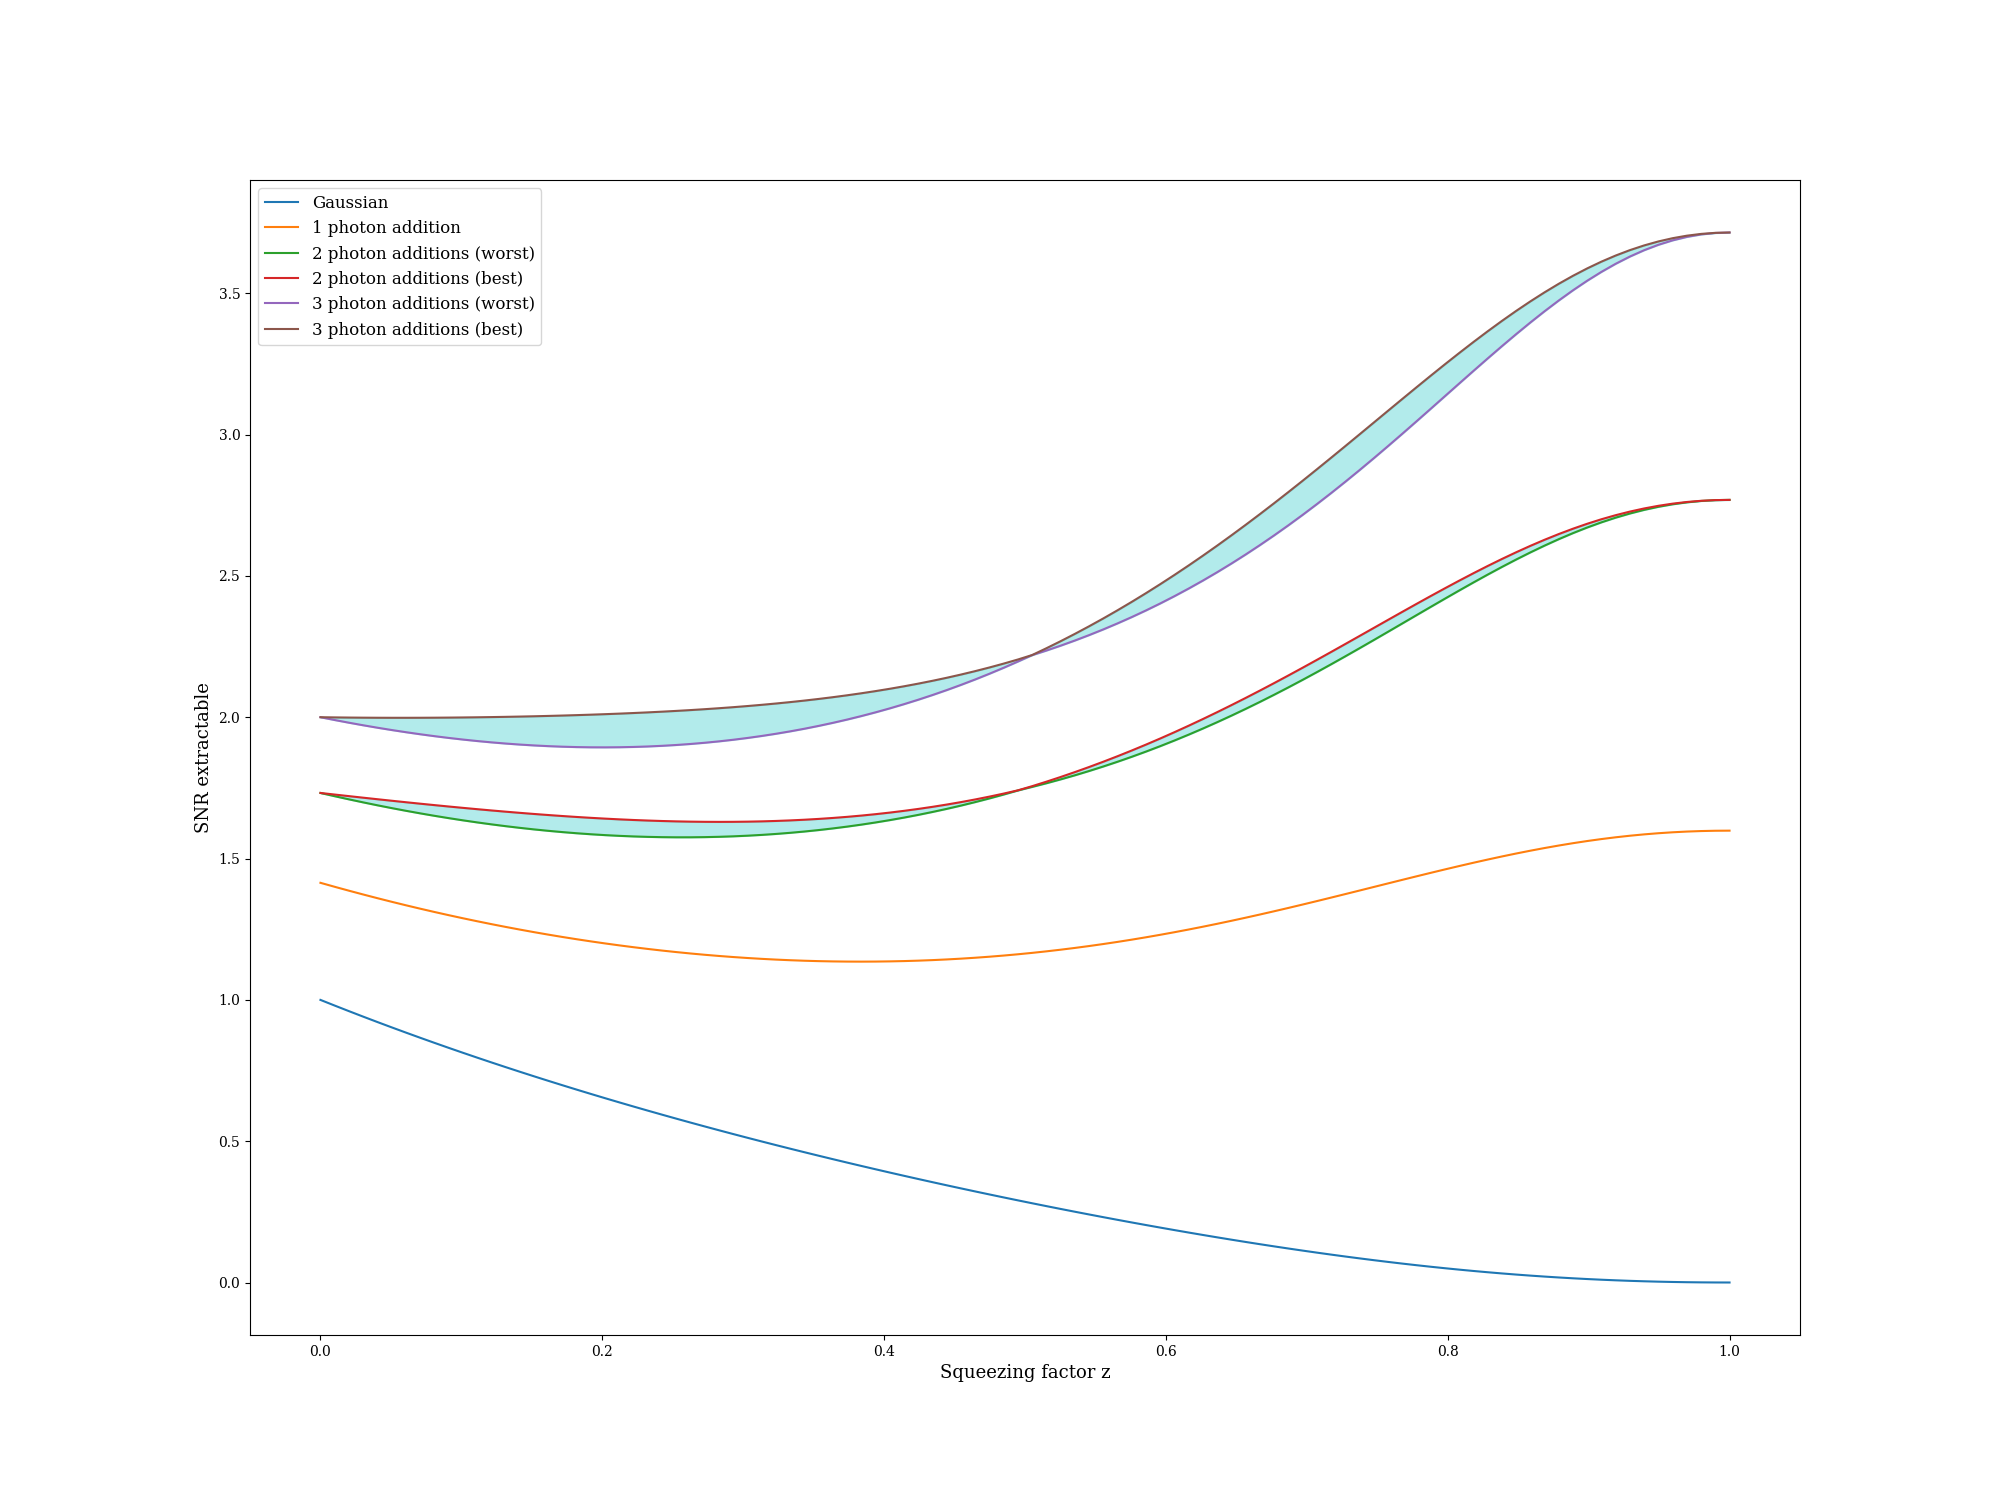
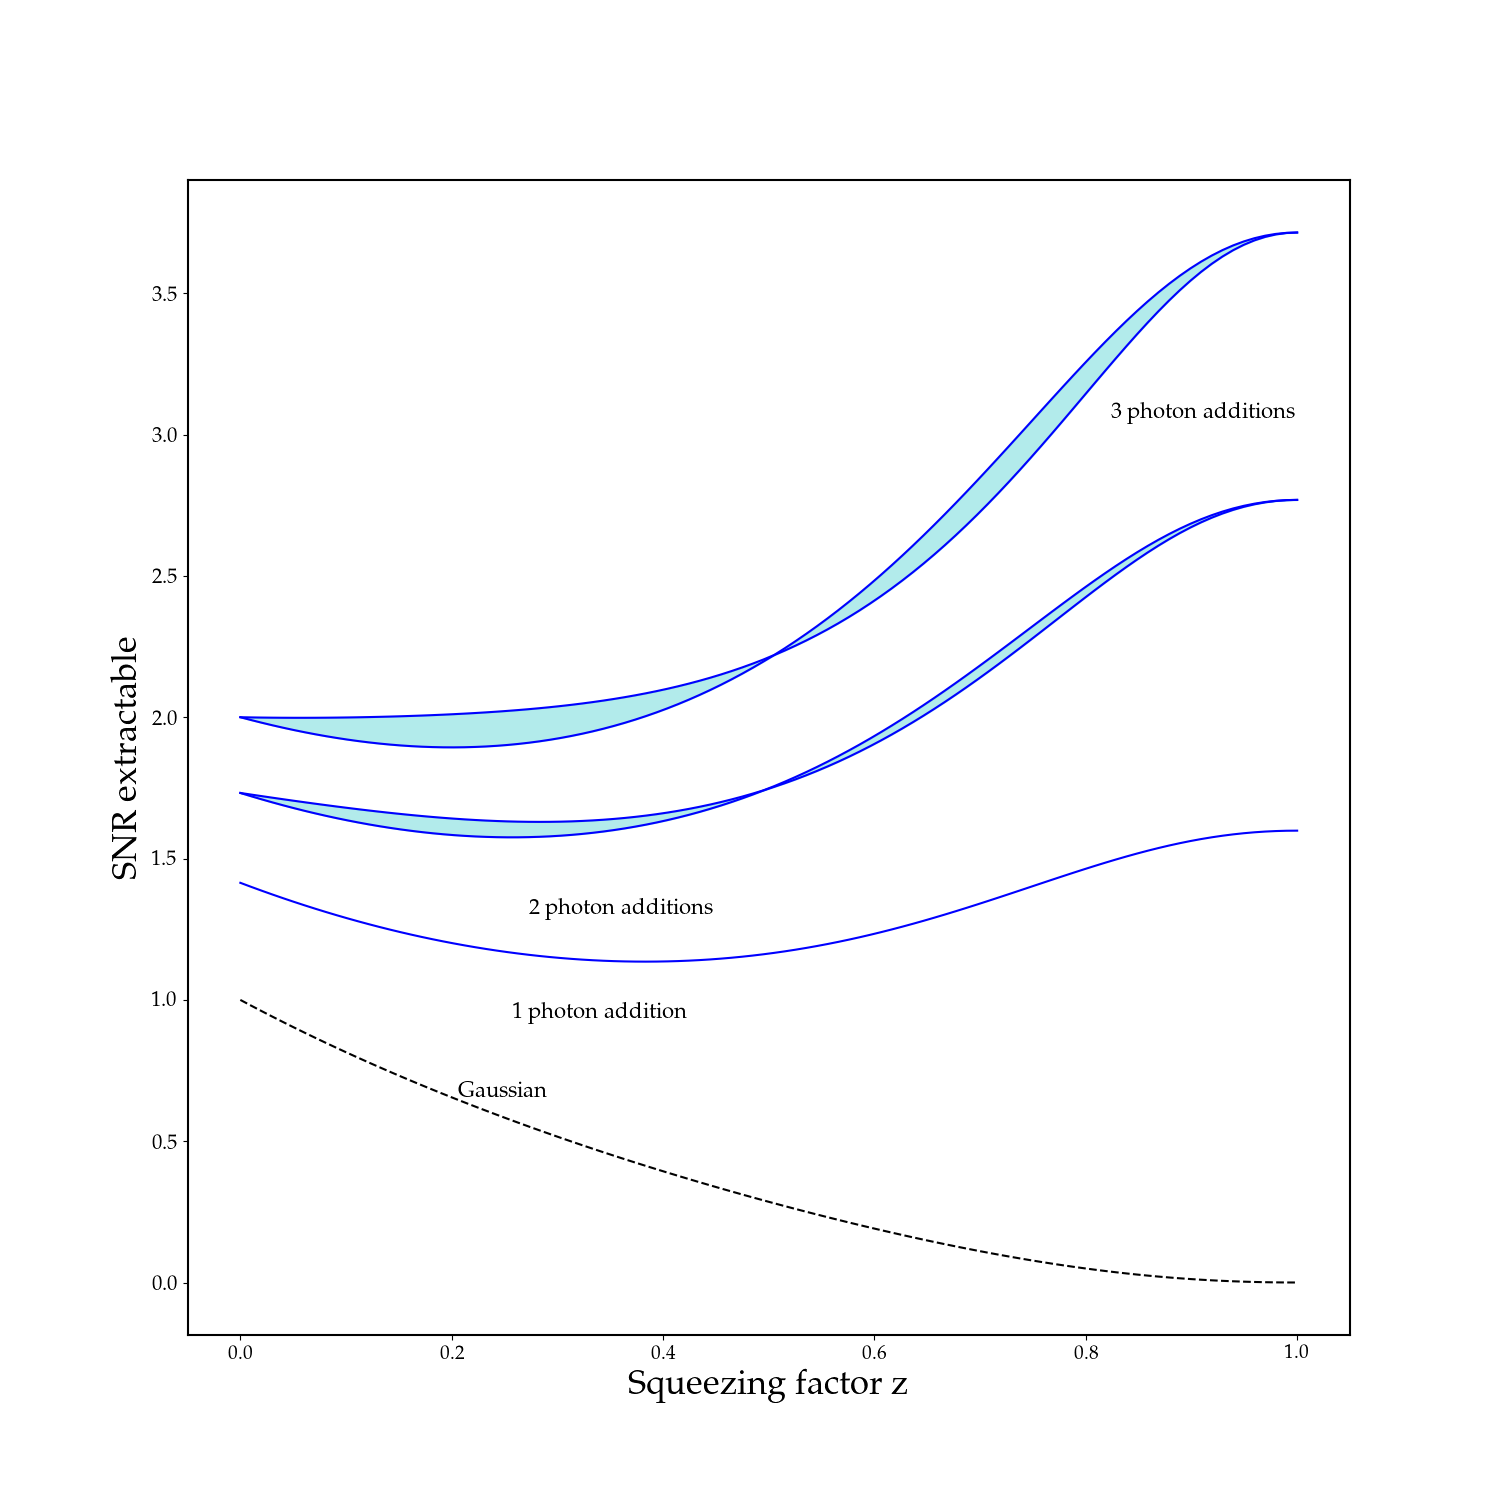
edits in plots

diff --git a/plots.py b/plots.py
@@ -20,7 +20,20 @@ import matplotlib.colors as mcolors
 
 from utils import *
 from expectation_values import *
-plt.rc('font', family='serif')
+params = {'axes.linewidth': 1.4,
+         'axes.labelsize': 25,
+         'axes.titlesize': 30,
+         'axes.linewidth': 1.5,
+         'lines.markeredgecolor': "black",
+     	'lines.linewidth': 1.5,
+         'xtick.labelsize': 14,
+         'ytick.labelsize': 15,
+         "text.usetex": True,
+         "font.family": "serif",
+         "font.serif": ["Palatino"]
+         }
+plt.rcParams.update(params)
+
 
 def ratio_results(nongaussian_ops,z,theta,phi,params):
   N=len(z)
@@ -490,10 +503,10 @@ def SV_plots(nongaussian_ops):
   x = np.arange(0, np.pi, 0.005) #for angles
   z_vec=np.linspace(0.25,0.85,10) #squeezing values
   colors = plt.cm.viridis(z_vec)
-  T=5
+  T=1.3
   sigma0=V_thermal(T,[1,1],[0],[0]*2,params=None)
   phi=np.random.rand(2)
-  fig,axes=plt.subplots(2,1)
+  fig,axes=plt.subplots(2,1,figsize=(15,15))
   j=0
   for j in range(len(nongaussian_ops)):
     axup = axes[(j//2)*2]
@@ -504,7 +517,7 @@ def SV_plots(nongaussian_ops):
       axup.set_ylabel('SV criterion')
       axdown.plot(x,[SNR_ng_extr(V_thermal(T,[q,1/q],[w],[0,0],params=None),nongaussian_ops[j],sigma0) for w in x], color=colors[i])
       axdown.set_ylabel('SNR extractable')
-      axdown.set_xlabel('Beam splitter angle θ')
+      axdown.set_xlabel(r' Beam splitter angle $\displaystyle \theta$')
       i+=1
   
   # Adjust layout to make room for the colorbar
@@ -527,7 +540,7 @@ def SV_plots(nongaussian_ops):
 def evolution_with_noise_gaussian():
   
   plt.rc('font', family='serif')
-  fig, ax = plt.subplots(1, 1, figsize=(15, 15))
+  fig, ax = plt.subplots(1, 1, figsize=(30, 15))
   noise=np.linspace(1,3,10)
   #second plot
   z_vec=list(np.arange(0.001,1,0.001))
@@ -538,16 +551,16 @@ def evolution_with_noise_gaussian():
     yvec= [SNR_ng_extr(V_thermal(noise[i],[z,1/z],[0],[0,0],params=None),[],sigma0) for z in z_vec]
     ax.plot(z_vec,yvec, color=cmap(norm(noise[i])))
   cbar = plt.colorbar(plt.cm.ScalarMappable(cmap=cmap, norm=norm), ax=ax, location='right') 
-  cbar.set_label('Noise',fontsize=13)
-  ax.set_xlabel('Squeezing parameter z',fontsize=20)
-  ax.set_ylabel('SNR extractable',fontsize=20)
+  cbar.set_label('Noise')
+  ax.set_xlabel('Squeezing parameter z')
+  ax.set_ylabel('SNR extractable')
   #ax.set_title('SNR as a function of squeezing')
   plt.savefig('gaussian_extr_snr_with noise.png')
   plt.show()
   return
 
 def bounds():
-  fig, ax = plt.subplots(1, 1, figsize=(20, 15))
+  fig, ax = plt.subplots(1, 1, figsize=(15, 15))
   plt.rc('font', family='serif')
   x_vec=np.linspace(0.00000001,np.pi,100)
   nu=1.3
@@ -569,18 +582,25 @@ def bounds():
     three_worst+=[np.min([SNR_ng_extr(V_thermal(nu,[z,1/z],[0],[0,0]),[factor,factor,factor],sigma0),SNR_ng_extr(V_thermal(nu,[z,1/z],[np.pi/4],[0,0]),[factor,factor,factor],sigma0)])]
     three_best+=[np.max([SNR_ng_extr(V_thermal(nu,[z,1/z],[0],[0,0]),[factor,factor,factor],sigma0),SNR_ng_extr(V_thermal(nu,[z,1/z],[np.pi/4],[0,0]),[factor,factor,factor],sigma0)])]
 
-  
-  ax.plot(z_vec,[SNR_gaussian_extr(sigma[i],sigma0) for i in range(len(z_vec))])
-  ax.plot(z_vec,[SNR_ng_extr(sigma[i],[factor],sigma0) for i in range(len(z_vec))])
-  ax.plot(z_vec,two_worst)
-  ax.plot(z_vec,two_best)
-  ax.plot(z_vec,three_worst)
-  ax.plot(z_vec,three_best)
+  gaussian=[SNR_gaussian_extr(sigma[i],sigma0) for i in range(len(z_vec))]
+  ax.plot(z_vec,gaussian, 'black',linestyle='dashed',label='Gaussian')
+  ax.annotate('Gaussian',xy  = ( z_vec[20], gaussian[20]), xytext = (1.02*z_vec[20], gaussian[20]),color  = 'black',fontsize=16)
+  y=[SNR_ng_extr(sigma[i],[factor],sigma0) for i in range(len(z_vec))]
+  ax.plot(z_vec,y, 'b',label= '1 photon {operation}')
+  ax.annotate(f'1 photon {operation}',xy  = ( z_vec[25], 0.85*y[25]), xytext = (1.02*z_vec[25], 0.8*y[25]),color  = 'black',fontsize=16)
+  ax.plot(z_vec,two_worst,'b')
+  ax.plot(z_vec,two_best, 'b',label='2 photon {operation}')
+  y=two_best
+  ax.annotate(f'2 photon {operation}s',xy  = ( z_vec[30], 0.90*y[30]), xytext = (0.9*z_vec[30], 0.80*y[30]),color  = 'black',fontsize=16)
+  ax.plot(z_vec,three_worst, 'b')
+  ax.plot(z_vec,three_best,'b', label='3 photon {operation}')
+  y=three_best
+  ax.annotate(f'3 photon {operation}s',xy  = ( z_vec[80], 0.9*y[80]), xytext = (1.02*z_vec[80], 1.02*y[80]),color  = 'black',fontsize=16)
   ax.fill_between(z_vec,two_worst,two_best, color='c',alpha=0.3)
   ax.fill_between(z_vec,three_worst,three_best, color='c', alpha=0.3)
-  plt.legend(['Gaussian',f'1 photon {operation}',f'2 photon {operation}s (worst)',f'2 photon {operation}s (best)',f'3 photon {operation}s (worst)',f'3 photon {operation}s (best)'], fontsize=12)
-  ax.set_xlabel('Squeezing factor z',fontsize=13)
-  ax.set_ylabel('SNR extractable',fontsize=13) 
+  #plt.legend(['Gaussian',f'1 photon {operation}',f'2 photon {operation}s (worst)',f'2 photon {operation}s (best)',f'3 photon {operation}s (worst)',f'3 photon {operation}s (best)'], fontsize=12)
+  ax.set_xlabel('Squeezing factor z')
+  ax.set_ylabel('SNR extractable') 
   #plt.title('Evolution of SNR and extractable SNR with squeezing factor' )
   plt.savefig(f'bounds {operation}')
   plt.show()
@@ -609,4 +629,4 @@ def critical_temp():
 #PLOTS FOR THESIS:
 bounds()
 #evolution_with_noise_gaussian()
-#SV_plots([[+1,+1]])
+#SV_plots([[-1,-1]])

diff --git a/optimizations.py b/optimizations.py
@@ -221,6 +221,19 @@ def optimization_4(K): #K is the maximum number of non-gaussian operations to pe
 
 
 #OPTIMIZATION ON NUMBER OF MODES
+params = {'axes.linewidth': 1.4,
+         'axes.labelsize': 16,
+         'axes.titlesize': 18,
+         'axes.linewidth': 1.5,
+         'lines.markeredgecolor': "black",
+     	'lines.linewidth': 1.5,
+         'xtick.labelsize': 11,
+         'ytick.labelsize': 13,
+         "text.usetex": True,
+         "font.family": "serif",
+         "font.serif": ["Palatino"]
+         }
+plt.rcParams.update(params)
 #now we only optimize in the passive optics operations that we know how to 'physically implement' (z,bs,ps)
 def optimization_5(nongaussian_ops, n_max):
   ratios=[[0]*(n_max-2)]*len(nongaussian_ops)
@@ -242,7 +255,7 @@ def optimization_5(nongaussian_ops, n_max):
         free_pars+=[phi[i]] 
       def cost(free_pars):
           return np.real(1/SNR_ng_extr(V_thermal(T,free_pars[:N],2*np.pi*free_pars[N:(N*(N-1))//2+N],2*np.pi*free_pars[(N*(N-1))//2+N:],params),nongaussian_ops[j],sigma0)) #we take the inverse of the SNR to minimize
-      bounds_opt = Bounds([0.15]*N+[0]*(len(free_pars)-N), [0.95]*N+[1]*(len(free_pars)-N))
+      bounds_opt = Bounds([0.05]*N+[0]*(len(free_pars)-N), [0.95]*N+[1]*(len(free_pars)-N))
       start = time.time()
       out=minimize(cost,free_pars,bounds=bounds_opt, method='L-BFGS-B')
       ratios[j][N-2]=1/out.fun
@@ -252,7 +265,10 @@ def optimization_5(nongaussian_ops, n_max):
       print('optimal ratio:',1/out.fun)
       print('')
     plt.plot(np.arange(2,n_max),ratios[j],linestyle='dashdot', marker='o')
-  plt.title('Evolution of maximum SNR with number of modes N')
+  #plt.title('Evolution of maximum SNR with number of modes N')
+  plt.ylabel('Maximum SNR extractable')
+  plt.xticks(range(2,n_max),['2','3','4','5'])
+  plt.xlabel('Number of modes N')
   plt.legend(['Gaussian','1 photon subtraction', '2 photon subtractions', '3 photon subtractions'])
   plt.savefig('opti T=1.3.png')
   plt.show()

diff --git a/expectation_values.py b/expectation_values.py
@@ -226,7 +226,7 @@ def SV(sigma,nongaussian_ops): #N=2 only
   modes= modes[cut+1:]+modes[:cut]
   #print(ops)
   #print(modes)
-  sum1+=expectationvalue(sigma,ops,modes)/K_ng(sigma,nongaussian_ops)-0.5
+  sum1+=expectationvalue(sigma,ops,modes)/K_ng(sigma,nongaussian_ops)
     
   sum2=0
   ops=['rho']
@@ -244,7 +244,7 @@ def SV(sigma,nongaussian_ops): #N=2 only
   modes= modes[cut+1:]+modes[:cut]
   #print(ops)
   #print(modes)
-  sum2+=expectationvalue(sigma,ops,modes)/K_ng(sigma,nongaussian_ops)-0.5
+  sum2+=expectationvalue(sigma,ops,modes)/K_ng(sigma,nongaussian_ops)
 
   sum3=0
   ops=['rho']
